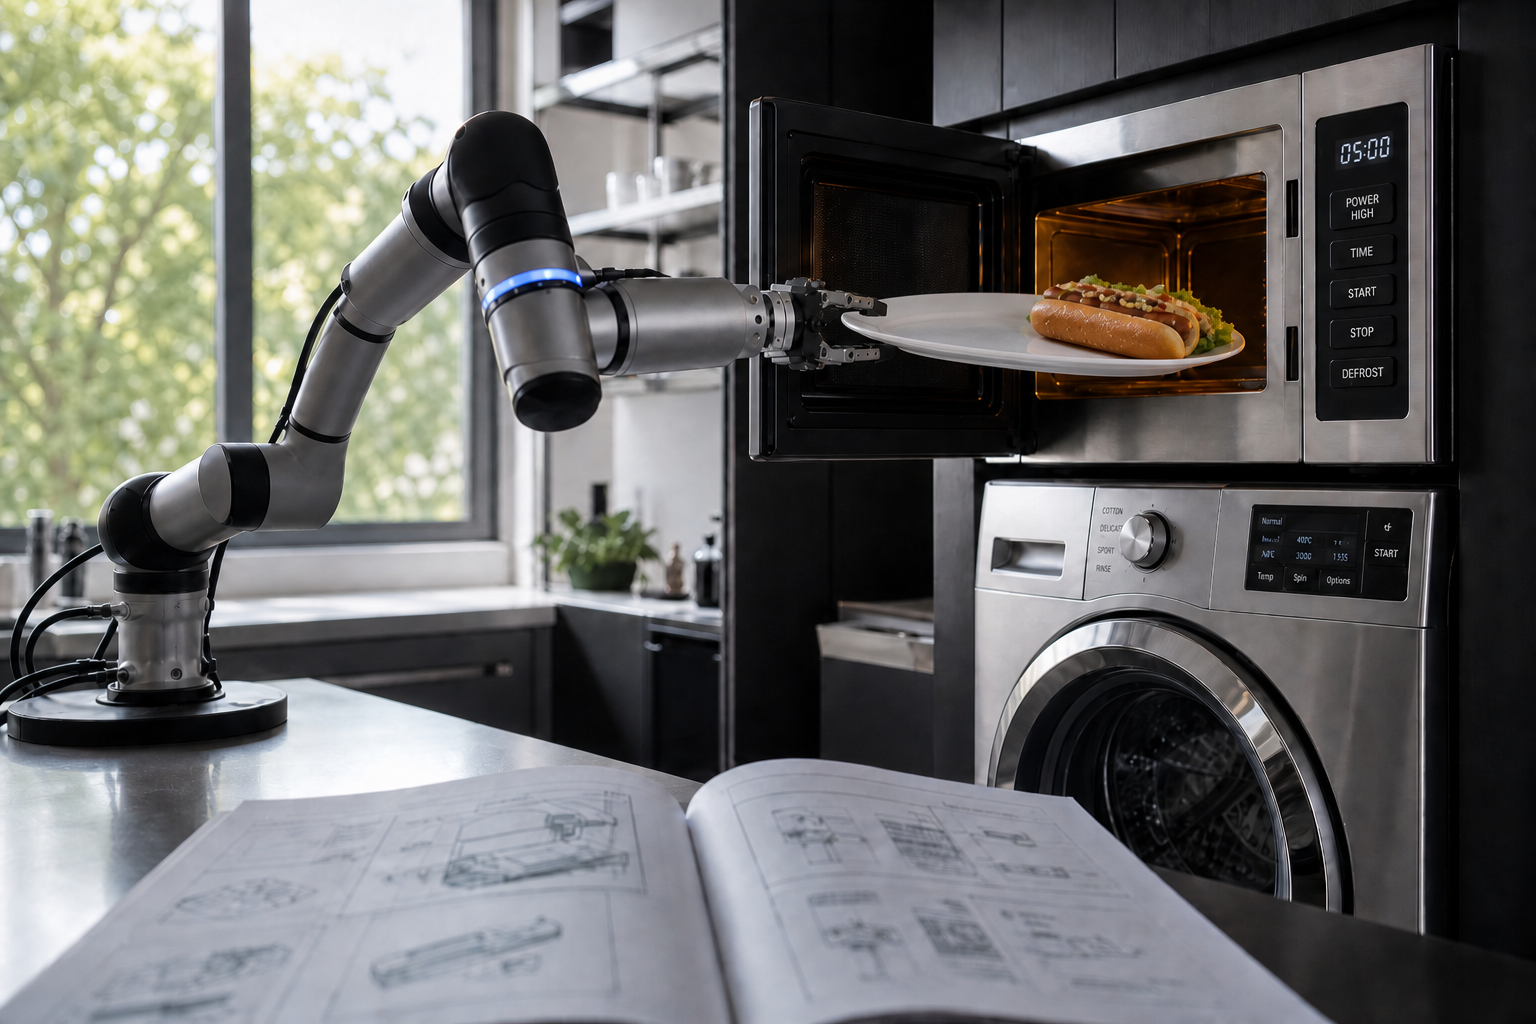
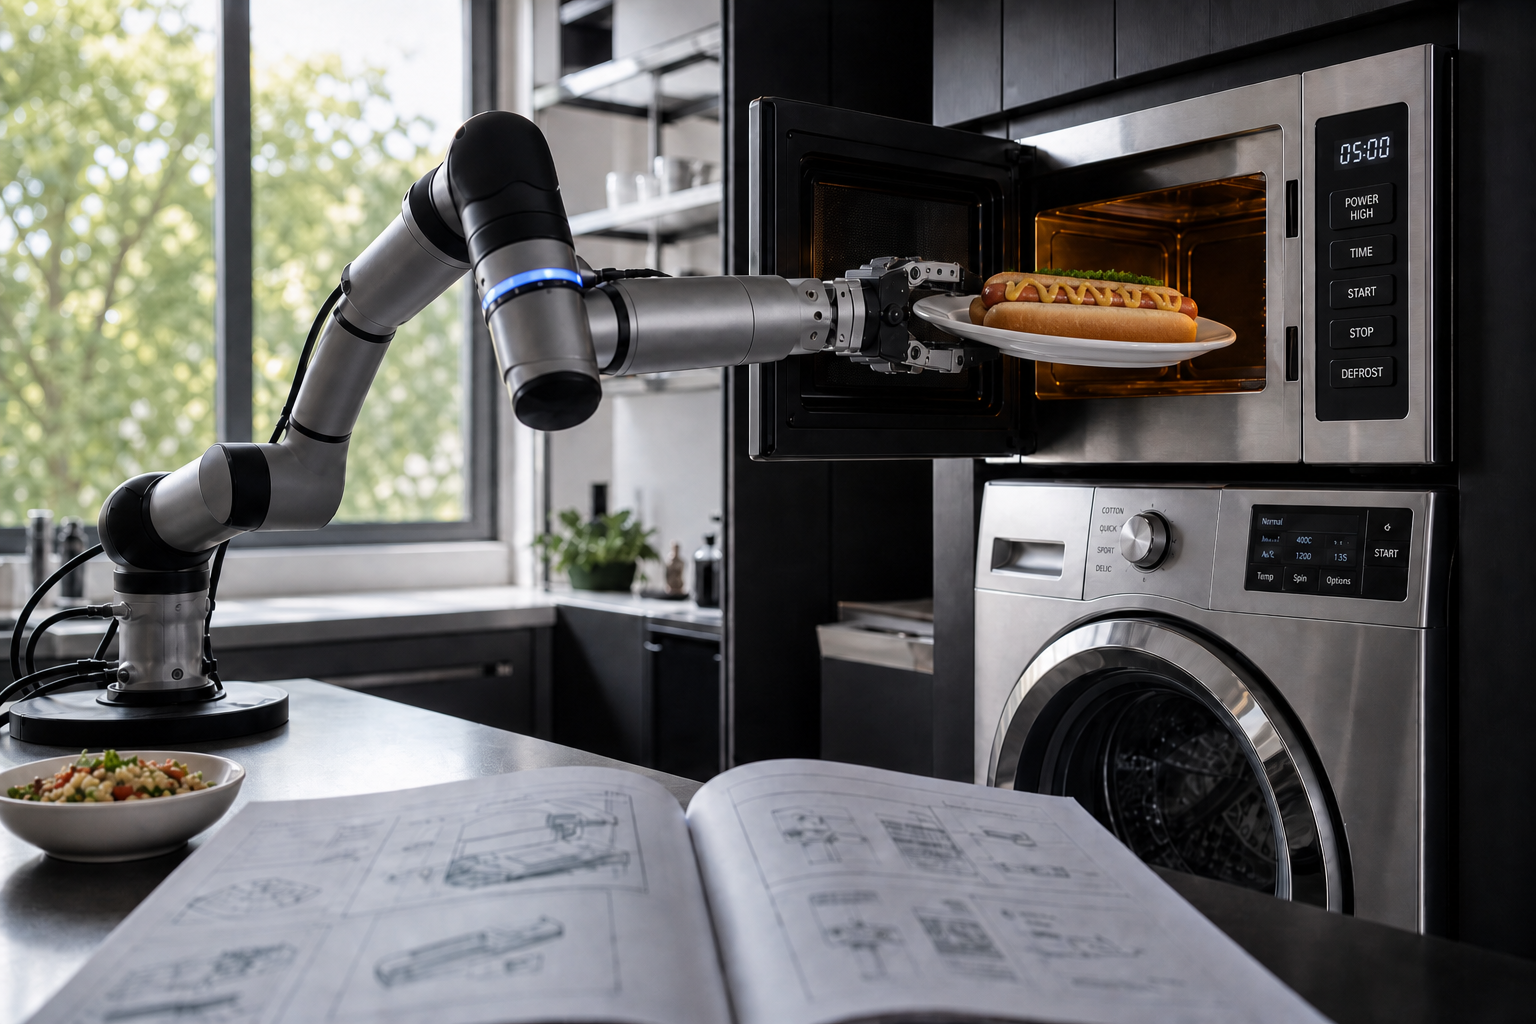
Fix hero plate composition: centered food with rim grasp.
Replace the awkward rim-stuck hot dog with a natural centered meal while keeping the gripper on the plate edge only.

diff --git a/index.html b/index.html
@@ -37,7 +37,7 @@
       <section class="hero" aria-label="Project introduction">
         <div class="hero-media" aria-hidden="true">
           <img
-            src="assets/hero-appliance.jpg?v=20260715g"
+            src="assets/hero-appliance.jpg?v=20260715h"
             alt=""
             class="hero-image"
             width="1920"